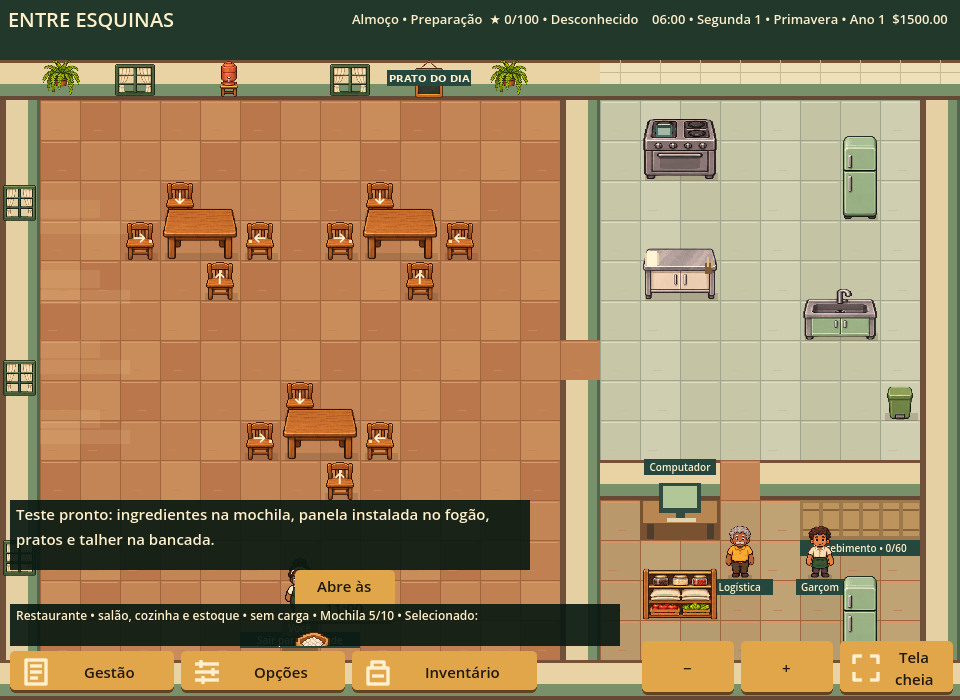
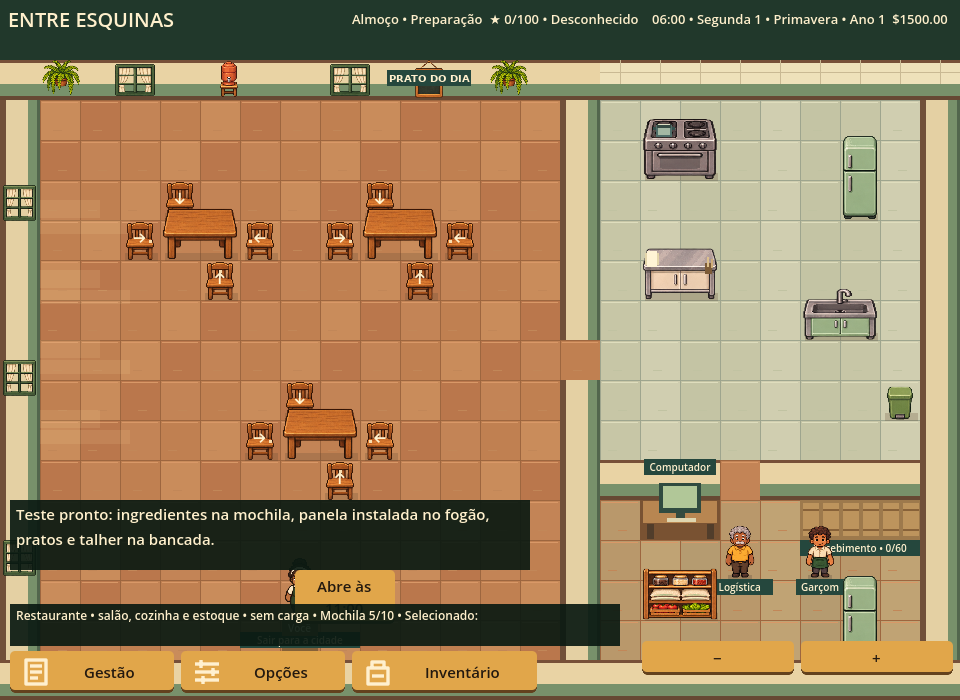
Corrigir interação, cozinha e recuperação de saves na Godot

Changed region(s): [[0.6562, 0.9, 1.0, 1.0], [0.3125, 0.9, 0.3438, 0.93]]

diff --git a/godot/simulacao/acoes.js b/godot/simulacao/acoes.js
@@ -200,7 +200,6 @@ $('openBtn').onclick=()=>{
  if(!R.near(state.player,door,1)){const points=[{room:'restaurant',x:8,y:14},{room:'restaurant',x:7,y:13},{room:'restaurant',x:6,y:14}].filter(p=>R.route(state,'restaurant',state.player,p,state.player));points.sort((p,q)=>Math.abs(p.x-state.player.x)+Math.abs(p.y-state.player.y)-Math.abs(q.x-state.player.x)-Math.abs(q.y-state.player.y));if(!points.length)return tell('Não há passagem até a plaquinha.',true);R.go(state.player,points[0]);}
  pendingInteraction={state,kind:'serviceSign',wasOpen:state.open,period:state.period,until:state.time+30};processInteraction();refresh();};
 $('inventoryBtn').onclick=()=>openDialog('inventory');$('menuBtn').onclick=()=>openDialog('general');$('optionsBtn').onclick=()=>openDialog('options');$('closeDialog').onclick=()=>$('management').close();
-$('fullscreenBtn').onclick=async()=>{try{if(document.fullscreenElement)await document.exitFullscreen();else {await document.documentElement.requestFullscreen();try{await screen.orientation?.lock('landscape')}catch{}}}catch{tell('Tela cheia indisponível neste computador. Gire o celular na horizontal.',true)}resize()};
 function openObjectInventory(id){const o=state.objects.find(o=>o.id===id);if(['stove','prep','sink','bin'].includes(o?.type))return tell('Use as ações rápidas do equipamento.');if(!o?.inventory||state.player.motion||!R.accessPoints(state,o).some(p=>R.near(state.player,p,0)))return tell('Aproxime-se do objeto.',true);dialogObjectId=id;openDialog('container');}
 function openDialog(mode){if(mode==='build')return enterConstruction();if(constructionMode)return;pendingInteraction=null;releaseKeyboard();$('management').setAttribute('data-mode',mode);if(mode==='computer'&&!R.near(state.player,{room:'restaurant',x:16,y:12},1))return tell('Aproxime-se do computador.',true);dialogMode=mode;dialogTab=['cooking','plating'].includes(mode)?mode:mode==='container'?'container':mode==='inventory'?'inventory':mode==='build'?'catalog':mode==='computer'?'supplier':mode==='options'?'camera':'shifts';$('management').showModal();renderDialog();}
 function card(title,description,action,label='Selecionar',disabled=false){let d=document.createElement('div');d.className='card';let b=document.createElement('b');b.textContent=title;d.append(b);let p=document.createElement('p');p.textContent=description;d.append(p);if(action)button(label,action,d,disabled);return d;}
@@ -211,6 +210,7 @@ function renderDialog(){let panel=$(constructionMode?'constructionPanel':'panel'
  panel.innerHTML='<p>Ajuste a distância para ver mais do restaurante ou aproximar os detalhes. A visão mais ampla usa 70%. A proporção da tela também determina o enquadramento.</p>';
  const row=document.createElement('div');row.className='cameraControls';const value=document.createElement('output');value.textContent=Math.round(cameraLevel*100)+'%';
  const change=delta=>{setCameraLevel(cameraLevel+delta);renderDialog()};button('− Afastar',()=>change(-.1),row,cameraLevel<=.7);row.append(value);button('+ Aproximar',()=>change(.1),row,cameraLevel>=2);panel.append(row);button('Restaurar zoom padrão (100%)',()=>{setCameraLevel(1);renderDialog()},panel);
+ const fullscreen=button('Alternar tela cheia',()=>{},panel);fullscreen.id='fullscreenBtn';
  }
  if(dialogTab==='shifts'){
  panel.innerHTML='<p>A plaquinha abre o serviço dentro dos horários abaixo. Fechar antes da hora mantém o mesmo turno. No fim do horário, param as entradas e os clientes presentes concluem o atendimento. Horários da madrugada pertencem ao mesmo dia jogável. Alterações exigem o serviço concluído.</p>';
@@ -331,7 +331,7 @@ function drawKitchenStatus(){
 let kitchenAudio=null;const playedHeat=new WeakMap();
 document.addEventListener('pointerdown',()=>{try{if(!kitchenAudio&&typeof window.AudioContext==='function')kitchenAudio=new window.AudioContext();if(kitchenAudio?.state==='suspended')kitchenAudio.resume();}catch{}},{once:true});
 function kitchenSounds(){for(const o of state.objects){if(!o.readyBatch)continue;const key=o.readyBatch.doneAt+':'+o.heatStage;if(playedHeat.get(o)===key)continue;playedHeat.set(o,key);if(!kitchenAudio||kitchenAudio.state!=='running')continue;try{const tone=kitchenAudio.createOscillator(),gain=kitchenAudio.createGain(),at=kitchenAudio.currentTime;tone.frequency.value=o.heatStage==='ready'?660:o.heatStage==='over'?440:220;gain.gain.setValueAtTime(.04,at);gain.gain.exponentialRampToValueAtTime(.001,at+.18);tone.connect(gain);gain.connect(kitchenAudio.destination);tone.start(at);tone.stop(at+.2);}catch{}}}
-for(const [id,kind] of Object.entries({menuBtn:'note',optionsBtn:'options',inventoryBtn:'bag',fullscreenBtn:'screen',catalogToggle:'hammer'})){
+for(const [id,kind] of Object.entries({menuBtn:'note',optionsBtn:'options',inventoryBtn:'bag',catalogToggle:'hammer'})){
  $(id).append(controlIcon(kind));
 }
 let uiTimer=0;function frame(now){let dt=Math.max(0,(now-last)/1000);last=now;if(!document.hidden&&!$('management').open&&!$('welcome').open&&!constructionMode){let msg=state.message,remaining=dt;while(remaining>1e-9){const slice=Math.min(.08,remaining);keyboardMove();R.step(state,slice);processInteraction();remaining=Math.max(0,remaining-slice);}if(state.message!==msg){$('notice').textContent=state.message;$('notice').style.opacity='1';noticeTime=now+4500;}kitchenSounds();uiTimer+=dt;if(uiTimer>.25){uiTimer=0;refresh()}}if(now>noticeTime)$('notice').style.opacity='0';updateCamera();positionActions();requestAnimationFrame(frame)}refresh();requestAnimationFrame(frame);

diff --git a/godot/qa/LEIA-ME.md b/godot/qa/LEIA-ME.md
@@ -1,0 +1,36 @@
+# Testes da versão Godot
+
+Execute na pasta `godot/` com Godot 4.6.3. Use um diretório de dados de teste:
+os testes gravam e, em MenusUI, corrompem arquivos de propósito para verificar
+recuperação. Não execute com o diretório da sua partida pessoal.
+
+```sh
+XDG_DATA_HOME="$(mktemp -d)" godot --headless --script res://qa/Verificar.gd
+XDG_DATA_HOME="$(mktemp -d)" godot --headless --script res://qa/CozinhaUI.gd
+XDG_DATA_HOME="$(mktemp -d)" godot --headless --script res://qa/MenusUI.gd
+XDG_DATA_HOME="$(mktemp -d)" godot --headless --script res://qa/ConstrucaoUI.gd
+```
+
+Importe antes com `godot --headless --editor --import` se estiver extraindo o
+projeto pela primeira vez. No Linux, configure também `XDG_CACHE_HOME` para uma
+pasta gravável se o cache padrão não estiver disponível.
+
+- `Verificar.gd`: sete suítes de regras no QuickJS, percursos de compra,
+  preparo, troca de cômodos e reforma; regressões de foco, relógio e teclado.
+- `CozinhaUI.gd`: cliques de mouse e teclas enviados ao viewport nativo;
+  caminhada, fogão, receita, panela, bancada, retirada e câmera. Detecta
+  sobreposições da HUD que os testes JavaScript não detectam.
+- `MenusUI.gd`: tutorial, todas as abas de Gestão/Opções, inventário,
+  salvar/carregar, importação e recuperação de arquivo corrompido. O teste
+  rola os painéis como o jogador para alcançar controles fora da área visível.
+- `ConstrucaoUI.gd`: início vazio, pausa da construção, seleção por clique,
+  rotação, confirmação de mudança, conservação do caixa e retorno ao jogo.
+- `Regras.cjs`: as mesmas sete suítes de regras no Node.js, opcional.
+
+Em sessão gráfica, omita `--headless` de CozinhaUI para testar entrada e saída
+reais de tela cheia. `-- --capturas` gera `/tmp/esquinas-ui-*.png`. Sem placa de
+som, use `--audio-driver Dummy`; isso não valida a saída sonora real.
+
+Um código de saída zero deve vir acompanhado de `FALHAS: 0`. Verifique também
+se há `SCRIPT ERROR` no log: falhas de compilação de GDScript podem acontecer
+antes do executor de testes e precisam ser tratadas como falha.

diff --git a/godot/REVISAO.md b/godot/REVISAO.md
@@ -57,3 +57,31 @@ apenas o smoke inicial e os testes das correções, sem os percursos extensos.
 
 O ZIP final foi extraído em outra pasta, reimportado sem cache prévio e
 validado com `--regressoes`: FALHAS: 0, sem erros ou avisos no log.
+
+## Revisão funcional de novembro de 2026
+
+- Corrigido bloqueio de mouse por contêineres invisíveis da HUD. Todos os
+  descendentes decorativos deixam passar os cliques; o status não aumenta
+  a área da barra superior ao quebrar linhas.
+- Ações principais da bancada em duas colunas e painel com rolagem delimitada.
+  Avisos ficam acima do painel para não cobrir os botões.
+- Tela cheia removida da barra inferior e disponível em Opções → Câmera.
+- Mantidas as regras e os controles de movimento da versão HTML. O núcleo
+  de simulação permanece idêntico ao HTML; nenhum arquivo HTML foi alterado.
+- Gravar após recuperar um arquivo corrompido preserva o último backup válido.
+  JSON inválido é recusado sem lançar exceção na extensão nativa.
+- Dimensões dos painéis são reaplicadas após a atualização dos controles,
+  quando os tamanhos mínimos dos filhos já podem ser recalculados.
+
+Testes nativos adicionais e instruções estão em `qa/LEIA-ME.md`.
+
+Na auditoria ampliada, passaram 63 verificações de interface nativa: 21 na
+cozinha/movimentação/câmera, 28 nos menus e salvamentos e 14 na construção.
+Também passaram as sete suítes de regras no Node.js. A importação de JSON
+corrompido e duas corrupções sucessivas do arquivo principal foram exercitadas
+com diretórios de dados descartáveis. Os testes gráficos usaram Godot 4.6.3,
+Linux x86-64 e Mesa; um aviso de V-Sync indisponível pertence ao driver virtual.
+Windows, exportação e saída de áudio física não foram validados nesta auditoria.
+As sete suítes de regras também passaram dentro da extensão nativa QuickJS
+na Godot, além da execução em Node.js. Os fluxos de interface foram acionados
+por eventos de mouse/teclado enviados ao viewport, incluindo rolagem dos painéis.
